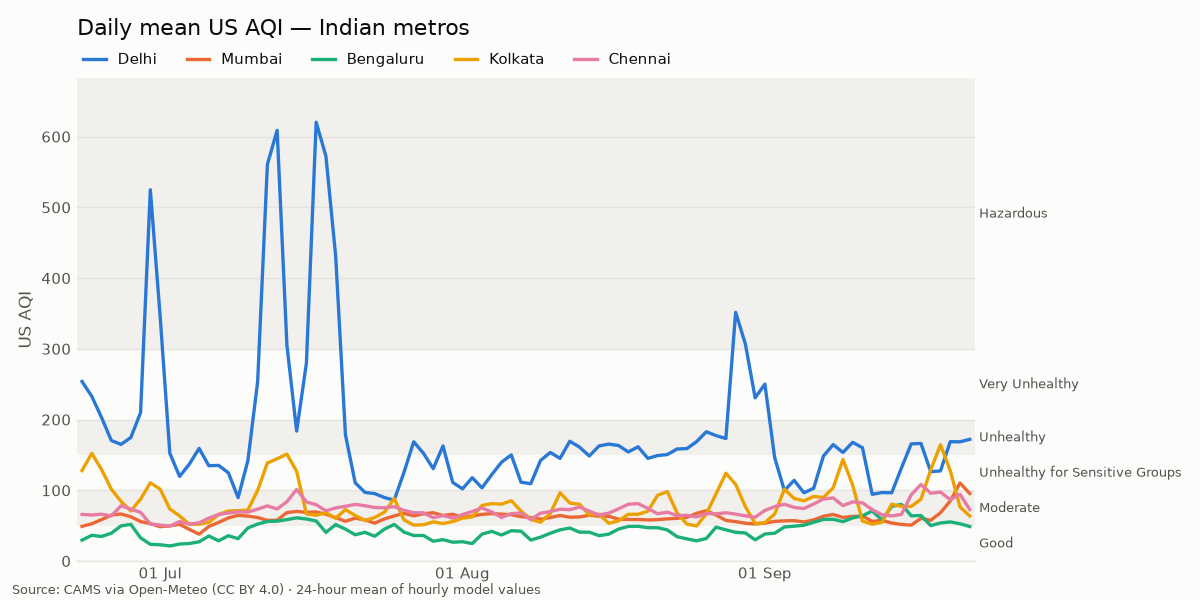
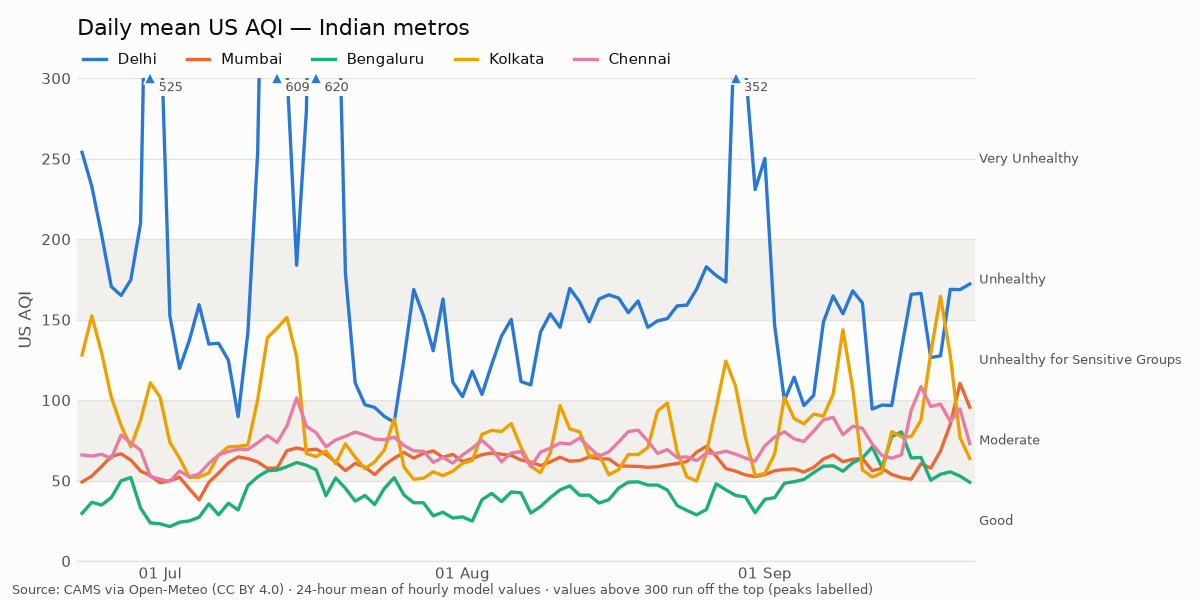
Add last-30-days summary and cap chart y-axis on extremes (#8)
After the 92-day backfill:

- README: "Last 30 days" table per city with days in each EPA category,
  30-day mean and worst day (omitted with fewer than 2 days of data)
- chart: the backfill surfaced Delhi dust-storm days above 600 (PM10
  500-800 ug/m3), which set the y-axis to ~680 and squashed the other four
  cities into the bottom fifth. The axis is now capped at
  max(300, p95 x 1.15) when extremes would dominate; each clipped run gets
  a marker and its peak value on a background box. Charts without
  extremes are unchanged.
- docs: US AQI above 500 (Open-Meteo extends the scale), chart cap,
  summary table
- tests: category counts, 30-day window edge, y_limit cases (normal,
  floor, rare extremes, sustained winter highs), peak detection
  (69 -> 75)

Claude-Session: https://claude.ai/code/session_011ZWaN1VWvsi4w3NQ7pg3C8

diff --git a/tests/test_outputs.py b/tests/test_outputs.py
@@ -1,5 +1,7 @@
 """Tests for the README updater and chart renderer."""
 
+from datetime import date
+
 import pytest
 
 import fetch
@@ -177,3 +179,66 @@ def test_change_shown_across_midnight_within_window():
     prev = {"us_aqi": "100", "fetched_at_utc": "2026-09-22T18:00:00Z"}  # 23:30 IST
     cur = {"us_aqi": "90", "fetched_at_utc": "2026-09-23T19:00:00Z"}  # 00:30 IST
     assert update_readme._change(cur, prev) == "▼ 10"
+
+
+def test_summary_counts_days_per_category(csv_path):
+    means = ["45.0", "60.0", "120.0", "160.0", "160.0", "250.0", "320.0"]
+    daily = [daily_row(f"2026-09-{16 + i}", "Delhi", m) for i, m in enumerate(means)]
+    daily.append(daily_row("2026-09-22", "Chennai", "30.0"))
+    out = update_readme.update_readme(README, read_rows(csv_path), daily)
+    assert "**Last 30 days** (2026-08-24 to 2026-09-22, full-day means · 7 days of data)" in out
+    #        Good Mod USG Unh VU Haz | mean = 1115/7 = 159.3 | worst
+    assert "| Delhi | 1 | 1 | 1 | 2 | 1 | 1 | 159 | 320 on 2026-09-22 |" in out
+    assert "| Chennai | 1 | · | · | · | · | · | 30 | 30 on 2026-09-22 |" in out
+    assert out.index("Last 30 days") < out.index("![US AQI trend")
+
+
+def test_summary_window_is_30_days(csv_path):
+    daily = [daily_row("2026-08-23", "Delhi", "400.0")]  # 31 days before the end: excluded
+    daily += [daily_row("2026-08-24", "Delhi", "100.0"), daily_row("2026-09-22", "Delhi", "50.0")]
+    out = update_readme.update_readme(README, read_rows(csv_path), daily)
+    assert "| Delhi | 1 | 1 | · | · | · | · | 75 | 100 on 2026-08-24 |" in out
+
+
+def test_summary_omitted_with_single_day(csv_path):
+    out = update_readme.update_readme(
+        README, read_rows(csv_path), [daily_row("2026-09-22", "Delhi", "100.0")]
+    )
+    assert "Last 30 days" not in out
+
+
+def test_y_limit_no_clipping_for_normal_range():
+    top, clipped = make_chart.y_limit([40.0, 90.0, 180.0])
+    assert not clipped and top == pytest.approx(198.0)
+
+
+def test_y_limit_small_values_floor_at_100():
+    assert make_chart.y_limit([20.0, 30.0]) == (100, False)
+
+
+def test_y_limit_clips_rare_extremes():
+    values = [100.0] * 95 + [620.0] * 5  # 5% dust-storm days
+    top, clipped = make_chart.y_limit(values)
+    assert clipped and top == make_chart.MIN_Y_CAP
+
+
+def test_y_limit_follows_sustained_high_levels():
+    # A Delhi winter: most days 300-450, so the cap rises instead of clipping it all.
+    values = [300.0 + i for i in range(150)]
+    top, clipped = make_chart.y_limit(values)
+    assert not clipped and top == pytest.approx(449 * 1.1)
+
+
+def test_peaks_above_one_label_per_run():
+    d = [date(2026, 7, i) for i in range(1, 9)]
+    pts = list(zip(d, [100, 400, 610, 500, 100, 350, 90, 320]))
+    assert make_chart.peaks_above(pts, 300) == [(d[2], 610), (d[5], 350), (d[7], 320)]
+
+
+def test_chart_with_outliers_renders(tmp_path):
+    daily = tmp_path / "d.csv"
+    rows = [daily_row(f"2026-07-{i:02d}", c, str(v)) for i in range(1, 31)
+            for c, v in [("Delhi", 620.0 if i in (10, 11) else 150.0), ("Mumbai", 60.0)]]
+    fetch.append_rows(daily, rows, fetch.DAILY_COLUMNS)
+    out = make_chart.render(tmp_path / "none.csv", tmp_path / "c.png", daily)
+    assert out.stat().st_size > 0

diff --git a/make_chart.py b/make_chart.py
@@ -42,6 +42,38 @@ GRID = "#e4e3df"
 BAND = "#f1f0ec"
 MIN_WINDOW_DAYS = 7  # a zero-width date axis renders garbage ticks
 MAX_MARKER_POINTS = 60  # beyond this, markers just clutter the lines
+# A dust storm can push one city's daily mean past 600 and squash every other
+# line into the bottom of the chart. Cap the axis instead, and label peaks.
+MIN_Y_CAP = 300  # top of "Very Unhealthy"; never clip below this
+Y_CAP_PERCENTILE = 0.95
+Y_CAP_HEADROOM = 1.15
+
+
+def y_limit(values: list[float]) -> tuple[float, bool]:
+    """Axis top and whether anything is clipped above it."""
+    ymax = max(values)
+    ordered = sorted(values)
+    p95 = ordered[round(Y_CAP_PERCENTILE * (len(ordered) - 1))]
+    cap = max(MIN_Y_CAP, p95 * Y_CAP_HEADROOM)
+    if ymax * 1.1 <= cap:
+        return max(100, ymax * 1.1), False
+    return cap, True
+
+
+def peaks_above(points: list[tuple[date, float]], cap: float) -> list[tuple[date, float]]:
+    """The highest point of each consecutive run of points above cap."""
+    peaks: list[tuple[date, float]] = []
+    in_run = False
+    for d, v in points:
+        if v > cap:
+            if in_run and v > peaks[-1][1]:
+                peaks[-1] = (d, v)
+            elif not in_run:
+                peaks.append((d, v))
+            in_run = True
+        else:
+            in_run = False
+    return peaks
 
 
 def load_series(csv_path: Path, column: str = "us_aqi") -> dict[str, list[tuple[date, float]]]:
@@ -81,8 +113,9 @@ def render(
                 color=TEXT_SECONDARY, fontsize=14, transform=ax.transAxes)
         ax.set_axis_off()
     else:
-        ymax = max(v for pts in series.values() for _, v in pts)
-        top = max(100, ymax * 1.1)
+        top, clipped = y_limit([v for pts in series.values() for _, v in pts])
+        if clipped:
+            note += f" · values above {top:.0f} run off the top (peaks labelled)"
 
         # Alternating neutral bands for EPA categories, labelled on the right.
         lower = 0
@@ -105,6 +138,13 @@ def render(
             ax.plot(xs, ys, label=city, color=CITY_COLORS[city], lw=2,
                     marker=marker, markersize=6, markeredgecolor=SURFACE,
                     markeredgewidth=1.5, zorder=3)
+            for d, v in peaks_above(pts, top) if clipped else []:
+                ax.plot([d], [top], marker="^", markersize=7, color=CITY_COLORS[city],
+                        markeredgecolor=SURFACE, clip_on=False, zorder=4)
+                ax.annotate(f"{v:.0f}", xy=(d, top), xytext=(5, -2),
+                            textcoords="offset points", ha="left", va="top",
+                            fontsize=7.5, color=TEXT_SECONDARY, zorder=5,
+                            bbox={"boxstyle": "square,pad=0.15", "fc": SURFACE, "ec": "none"})
 
         first = min(d for pts in series.values() for d, _ in pts)
         last = max(d for pts in series.values() for d, _ in pts)

diff --git a/update_readme.py b/update_readme.py
@@ -8,7 +8,9 @@ from datetime import date, datetime, timedelta
 from pathlib import Path
 
 from common import (
+    AQI_CATEGORIES,
     CITIES,
+    HAZARDOUS,
     CSV_PATH,
     DAILY_CSV_PATH,
     IST,
@@ -124,6 +126,54 @@ def render_daily(daily_rows: list[dict[str, str]]) -> list[str]:
     return lines
 
 
+SUMMARY_DAYS = 30
+CATEGORY_SHORT = {
+    "Good": "Good",
+    "Moderate": "Moderate",
+    "Unhealthy for Sensitive Groups": "USG",
+    "Unhealthy": "Unhealthy",
+    "Very Unhealthy": "V. Unhealthy",
+    "Hazardous": "Hazardous",
+}
+
+
+def render_summary(daily_rows: list[dict[str, str]]) -> list[str]:
+    """Days per EPA category, mean and worst day per city over the last 30 days."""
+    days_present = sorted({r["date"] for r in daily_rows})
+    if len(days_present) < 2:  # nothing beyond the single-day table
+        return []
+    end = days_present[-1]
+    start = (date.fromisoformat(end) - timedelta(days=SUMMARY_DAYS - 1)).isoformat()
+    window = [r for r in daily_rows if start <= r["date"] <= end]
+    n_days = len({r["date"] for r in window})
+    categories = [label for _, label in AQI_CATEGORIES] + [HAZARDOUS]
+
+    header = " | ".join(f"{CATEGORY_ICON[c]} {CATEGORY_SHORT[c]}" for c in categories)
+    lines = [
+        "",
+        f"**Last {SUMMARY_DAYS} days** ({start} to {end}, full-day means · "
+        f"{n_days} day{'s' if n_days != 1 else ''} of data): days in each category",
+        "",
+        f"| City | {header} | Mean | Worst day |",
+        "|---|" + "--:|" * len(categories) + "--:|---|",
+    ]
+    for city, _, _ in CITIES:
+        rows = [r for r in window if r["city"] == city]
+        if not rows:
+            continue
+        counts = {c: 0 for c in categories}
+        for r in rows:
+            counts[aqi_category(r["us_aqi_mean"])] += 1
+        cells = " | ".join(str(counts[c]) if counts[c] else "·" for c in categories)
+        mean = sum(float(r["us_aqi_mean"]) for r in rows) / len(rows)
+        worst = max(rows, key=lambda r: (float(r["us_aqi_mean"]), r["date"]))
+        lines.append(
+            f"| {city} | {cells} | {mean:.0f} | "
+            f"{float(worst['us_aqi_mean']):.0f} on {worst['date']} |"
+        )
+    return lines
+
+
 def render_section(
     rows: list[dict[str, str]], daily_rows: list[dict[str, str]] | None = None
 ) -> str:
@@ -160,6 +210,7 @@ def render_section(
         "two were taken more than 3 h apart in time of day (AQI has a daily cycle).</sub>",
     ]
     lines += render_daily(daily_rows or [])
+    lines += render_summary(daily_rows or [])
     lines += ["", f"![US AQI trend by city]({CHART_REL})"]
     return f"{START}\n" + "\n".join(lines) + f"\n{END}"
 

diff --git a/README.md b/README.md
@@ -32,6 +32,16 @@ day and commits the result to this repository. The git history *is* the database
 | Kolkata | 64 | 🟡 Moderate | 72 | 104 | 10.1 |
 | Chennai | 73 | 🟡 Moderate | 84 | 93 | 17 |
 
+**Last 30 days** (2026-08-24 to 2026-09-22, full-day means · 30 days of data): days in each category
+
+| City | 🟢 Good | 🟡 Moderate | 🟠 USG | 🔴 Unhealthy | 🟣 V. Unhealthy | 🟤 Hazardous | Mean | Worst day |
+|---|--:|--:|--:|--:|--:|--:|--:|---|
+| Delhi | · | 5 | 7 | 14 | 2 | 2 | 162 | 352 on 2026-08-29 |
+| Mumbai | · | 29 | 1 | · | · | · | 63 | 110 on 2026-09-21 |
+| Bengaluru | 13 | 17 | · | · | · | · | 52 | 80 on 2026-09-15 |
+| Kolkata | 1 | 20 | 8 | 1 | · | · | 87 | 164 on 2026-09-19 |
+| Chennai | · | 29 | 1 | · | · | · | 77 | 108 on 2026-09-17 |
+
 ![US AQI trend by city](charts/aqi_trend.png)
 <!-- AQI:END -->
 
@@ -60,9 +70,12 @@ Every day at **03:17 UTC (08:47 IST)** the GitHub Actions workflow
    a city has no AQI value. In the last case the other cities are still saved;
 3. runs **`make_chart.py`** to redraw [`charts/aqi_trend.png`](charts/aqi_trend.png). The
    chart plots the full-day mean AQI, falling back to the single snapshot only when no
-   full-day data exists yet;
+   full-day data exists yet. If a rare extreme (such as a dust storm pushing Delhi past 600)
+   would squash the other lines, the y-axis is capped at max(300, 95th percentile × 1.15).
+   Clipped runs are marked ▲ with their peak value;
 4. runs **`update_readme.py`** to rewrite the section between the `AQI:START` / `AQI:END`
-   markers above;
+   markers above: the latest snapshot, the latest full day with a 7-day mean, and a
+   **last 30 days** table (days per EPA category, mean, and worst day per city);
 5. commits `data: AQI snapshot YYYY-MM-DD` and pushes to `main`, but only if something
    actually changed.
 
@@ -123,6 +136,8 @@ reading:
   winter it's usually worst in the early morning), so snapshots are only comparable across
   days when taken at a similar time. That's why the README's "vs prev." column only compares
   readings taken within 3 hours of the same time of day. For trends, use `aqi_daily.csv`.
+- Open-Meteo extends US AQI above 500, the official top of the scale ("Beyond the AQI"), so
+  dust-storm days can show values like 620. They're still categorised as Hazardous.
 - `us_aqi_mean` is the mean of Open-Meteo's hourly US AQI values. This is not the same as
   the EPA's official daily AQI, which is computed from 24-hour mean concentrations.
 

diff --git a/CLAUDE.md b/CLAUDE.md
@@ -16,10 +16,12 @@ Bengaluru, Kolkata and Chennai from the Open-Meteo Air Quality API (CAMS data) i
   with N=1.
 - `make_chart.py` renders `charts/aqi_trend.png` (matplotlib, `Agg` backend). It plots
   `us_aqi_mean` from `aqi_daily.csv`, falling back to snapshot `us_aqi` only if there's no
-  daily data.
+  daily data. `y_limit()` caps the axis at max(300, p95 × 1.15) when rare extremes would
+  squash the other lines. `peaks_above()` labels one peak per clipped run.
 - `update_readme.py` replaces the text between `<!-- AQI:START -->` and `<!-- AQI:END -->`
   with a snapshot table ("vs prev." is only shown when readings are within 3 h of the same
-  time of day) and a full-day table with a 7-day mean.
+  time of day), a full-day table with a 7-day mean, and a last-30-days table (`render_summary`:
+  days per category, mean, worst day). The 30-day table is omitted with fewer than 2 days.
 - `tests/`: pytest. The fixture `tests/fixtures/open_meteo_response.json` mirrors the real
   multi-location response (a JSON array in coordinate order).
 - `.github/workflows/daily.yml`: cron `17 3 * * *` (08:47 IST), a backup cron `17 6 * * *`
